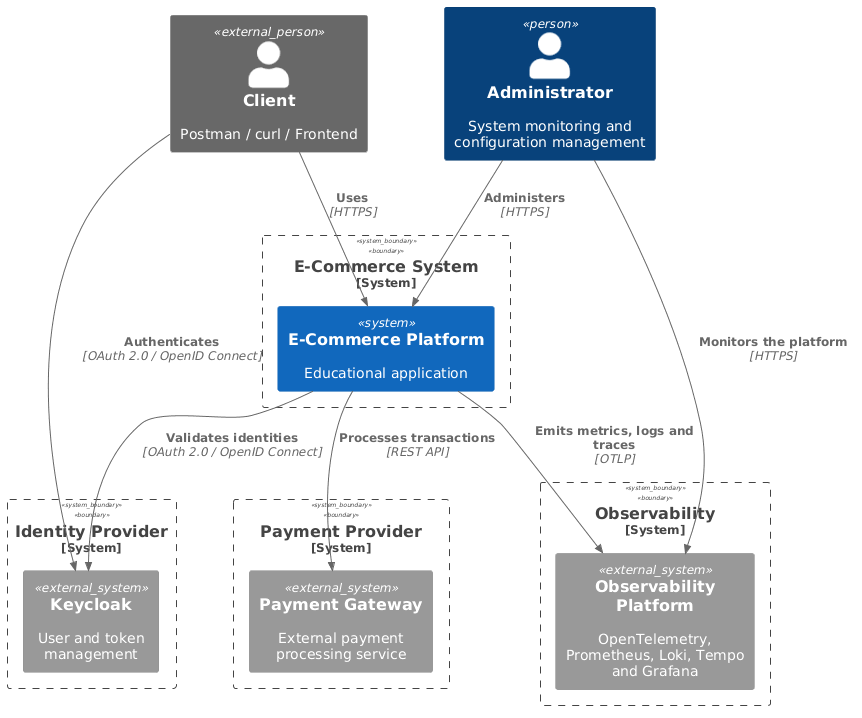
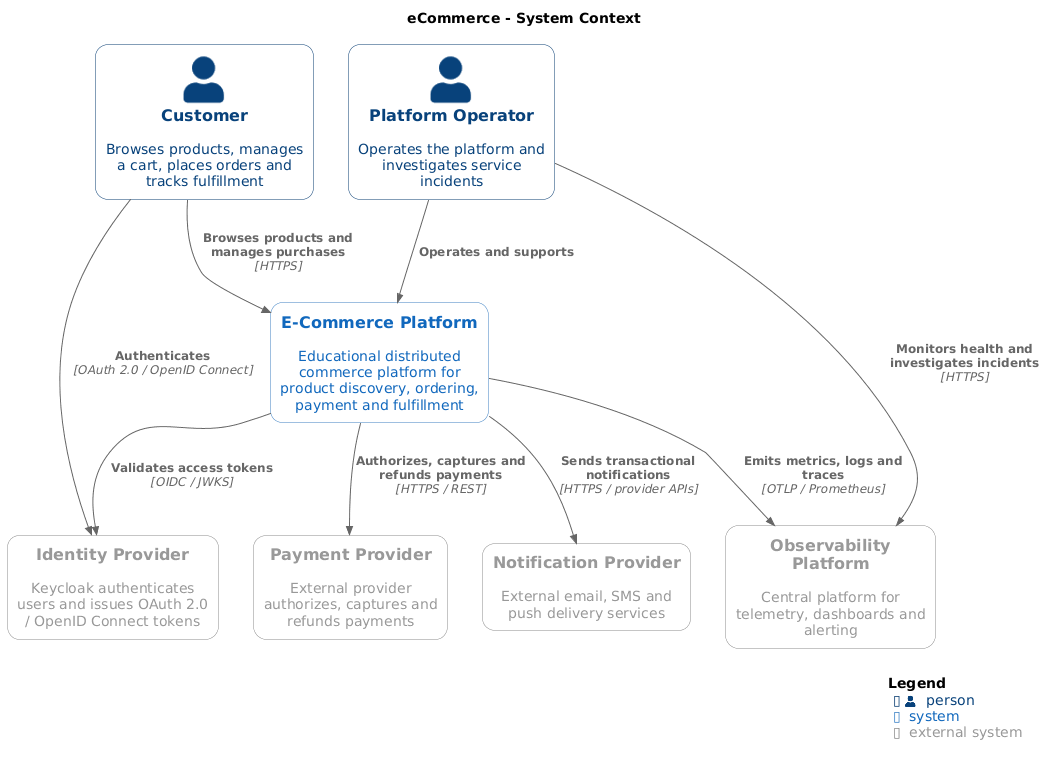
docs: added missing containers

diff --git a/README.md b/README.md
@@ -10,11 +10,11 @@ external Identity Provider based on the OAuth 2.0 and OpenID Connect protocols.
 
 ## Project Architecture
 
-Certain modules are intentionally omitted from the diagram—for example, observability components or databases on the
-container diagram. This was done deliberately to avoid cluttering the diagram with an excessive number of containers.
+The diagrams describe the target architecture. Repetitive relationships, such as identical database and telemetry
+connections from every service, are summarized where necessary to keep the diagrams readable.
 
 ### Context Diagram
 
 ![Context Diagram](docs/images/context.png)
 
-You can find the rest of the documentation [here](https://github.com/thisdudkin/ecommerce-platform/tree/main/docs).
+> You can find the rest of the documentation [here](https://github.com/thisdudkin/ecommerce-platform/tree/main/docs).